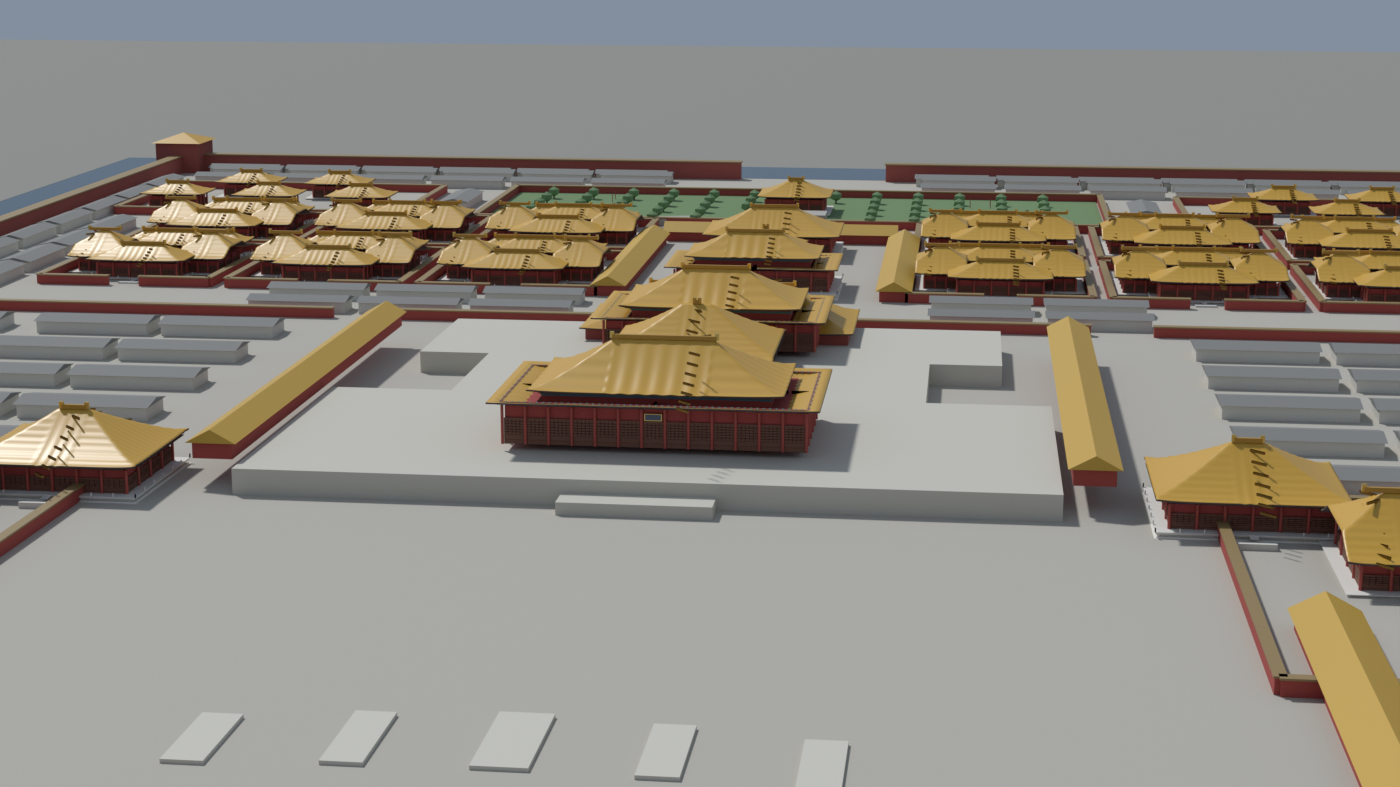
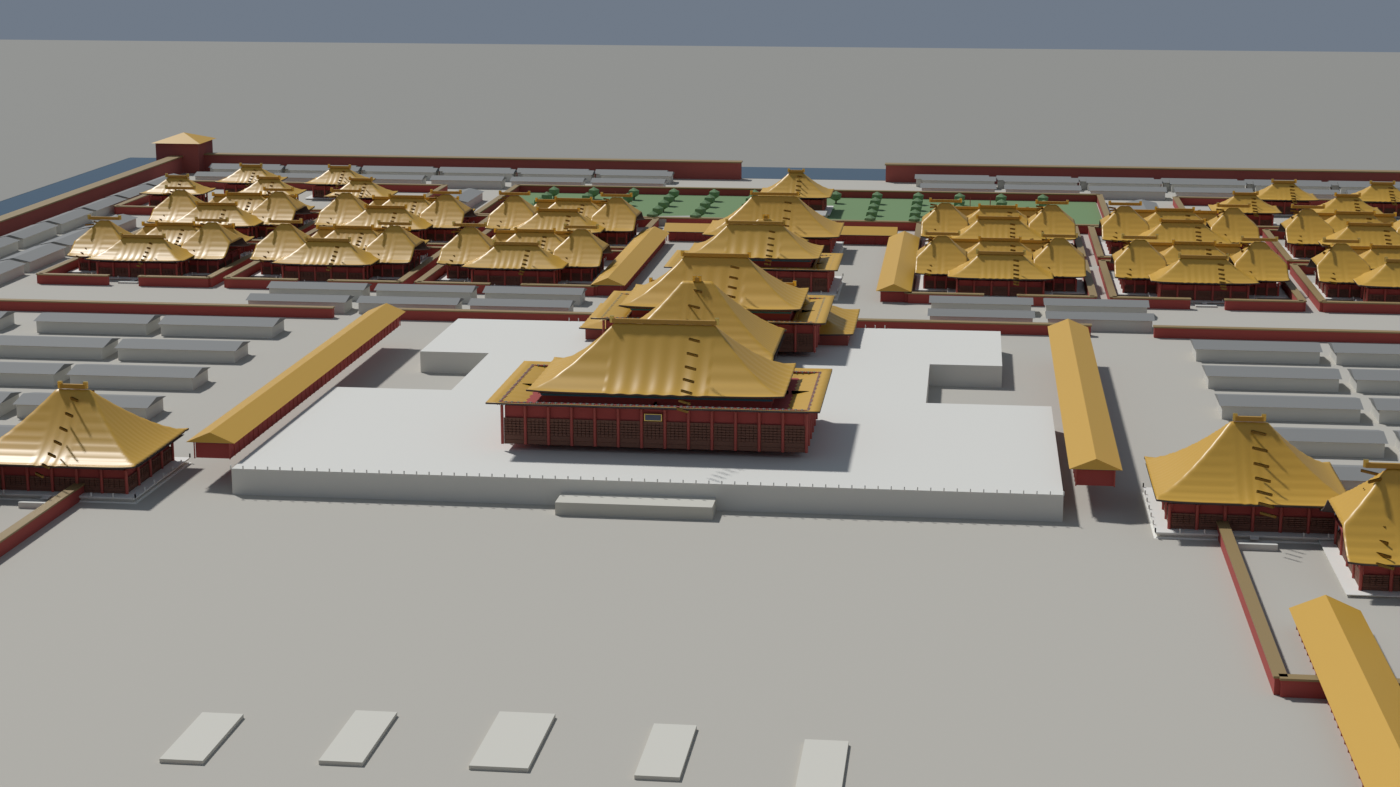
feat(palace): 精模二轮——屋顶加陡、廊庑改柱廊、三台加栏杆、光比调强

diff --git a/tools/palace/precise_lib.py b/tools/palace/precise_lib.py
@@ -37,8 +37,8 @@ def make_materials():
         soffit=_mat("椽望", (0.10, 0.075, 0.07), 0.9),
         column=_mat("朱红柱", (0.44, 0.08, 0.06), 0.6),
         wall=_mat("朱红墙", (0.40, 0.07, 0.06), 0.9),
-        stone=_mat("汉白玉", (0.82, 0.80, 0.74), 0.65),
-        stone2=_mat("石阶", (0.72, 0.70, 0.64), 0.8),
+        stone=_mat("汉白玉", (0.72, 0.70, 0.64), 0.6),
+        stone2=_mat("石阶", (0.60, 0.58, 0.52), 0.75),
         cai_blue=_mat("彩画青", (0.05, 0.20, 0.32), 0.6),
         cai_green=_mat("彩画绿", (0.05, 0.22, 0.16), 0.6),
         gold=_mat("金", (0.74, 0.56, 0.16), 0.32, 0.9),
@@ -294,7 +294,7 @@ def hip_roof(name, w, d, z_eave, h, step=0.55, mat=None):
 
     def f(x, y):
         t = min(max(max(abs(y), max(abs(x) - L / 2, 0.0)) / (d / 2), 0.0), 1.0)
-        z = h * (1.0 - t) ** 1.32
+        z = h * (1.0 - t) ** 1.50
         amp = 0.115 * (0.30 + 0.70 * t)
         z += corr(x if abs(x) <= L / 2 else y, amp)
         z += 0.5 * max(0.0, (abs(x) / (w / 2)) * (abs(y) / (d / 2))) ** 6
@@ -361,12 +361,22 @@ def ridges(w, d, z_eave, h, ridge_len, with_kiss=True):
                 t0, t1 = i / n, (i + 1) / n
                 xa, ya = x0 + (x1 - x0) * t0, y0 + (y1 - y0) * t0
                 xb, yb = x0 + (x1 - x0) * t1, y0 + (y1 - y0) * t1
-                za = z_eave + h * (1 - t0) ** 1.32 - 0.9
-                zb = z_eave + h * (1 - t1) ** 1.32 - 0.9
+                za = z_eave + h * (1 - t0) ** 1.50 - 0.9
+                zb = z_eave + h * (1 - t1) ** 1.50 - 0.9
                 seg = math.hypot(xb - xa, yb - ya)
                 ob = box(f"垂脊{sx}{sy}{i}", seg + 0.25, 0.5, 0.7,
                          (xa + xb) / 2, (ya + yb) / 2, (za + zb) / 2, MAT["tile2"])
                 ob.rotation_euler[2] = math.atan2(yb - ya, xb - xa)
+
+
+def balustrade_line(x0, x1, y, z, n=None, along_x=True):
+    n = n or max(2, int(abs(x1 - x0) / 3.6))
+    for i in range(n + 1):
+        t = x0 + (x1 - x0) * i / n
+        if along_x:
+            box("三台·望柱", 0.32, 0.32, 1.1, t, y, z, MAT["stone"])
+        else:
+            box("三台·望柱", 0.32, 0.32, 1.1, y, t, z, MAT["stone"])
 
 
 # ------------------------------------------------------------------ 门窗
@@ -397,6 +407,40 @@ def lattice_bay(name, w, h, x, y, z0, rot=0.0, bars=6):
     return ob
 
 
+def gable_roof(name, w, d, z_eave, h, mat=None, overhang=1.2):
+    """两坡（悬山）顶：给廊庑、值房用。"""
+    mat = mat or MAT["tile"]
+    w2, d2 = w + 2 * overhang, d + 2 * overhang
+    swap = d2 > w2
+    if swap:
+        w2, d2 = d2, w2
+    v = [(-w2 / 2, -d2 / 2, 0), (w2 / 2, -d2 / 2, 0), (w2 / 2, d2 / 2, 0), (-w2 / 2, d2 / 2, 0),
+         (-w2 / 2, 0, h), (w2 / 2, 0, h)]
+    f = [(0, 1, 5, 4), (3, 2, 5, 4), (0, 4, 3), (1, 2, 5)]
+    if swap:
+        v = [(b, a, c) for a, b, c in v]
+    return mesh_from(name, [(a, b, z_eave + c) for a, b, c in v], f, mat)
+
+
+def colonnade(name, w, d, z=0.0, h=4.6, bays=None):
+    """廊庑：两排柱 + 阑额 + 两坡瓦顶。"""
+    long_x = w >= d
+    span = w if long_x else d
+    n = bays or max(3, int(span / 4.5))
+    for i in range(n + 1):
+        t = -span / 2 + i * span / n
+        if long_x:
+            column(t, -(d / 2 - 0.7), z, z + h, 0.20)
+            column(t, d / 2 - 0.7, z, z + h, 0.20)
+        else:
+            column(-(w / 2 - 0.7), t, z, z + h, 0.20)
+            column(w / 2 - 0.7, t, z, z + h, 0.20)
+    ring_beam(name + "·阑额", w, d, z + h, 0.34, 0.30, MAT["cai_blue"])
+    box(name + "·墙", w - 1.6, d - 1.6, h - 0.3, 0, 0, z, MAT["wall"])
+    gable_roof(name + "·顶", w + 0.6, d + 0.6, z + h + 0.34,
+               max(1.4, (d if long_x else w) * 0.26), overhang=1.0)
+
+
 # ------------------------------------------------------------------ 整殿
 def hall(name, w, d, bays=None, dbays=None, z=0.0, storeys=1,
          base_h=3.2, col_h=12.0, plaque=None, lod=1, stairs=True, balustrade=True):
@@ -422,7 +466,7 @@ def hall(name, w, d, bays=None, dbays=None, z=0.0, storeys=1,
         rafter_band(f"{name}·椽", w + 1, d + 1, eave_lo - 0.12, depth=3.4)
 
     if storeys == 1:
-        roof_h = max(0.30 * d, 4.0)
+        roof_h = max(0.46 * d, 6.0)
         hip_roof(name + "·顶", w + 8, d + 8, eave_lo + 0.42, roof_h,
                  step=0.55 if lod >= 2 else 0.8)
         ridges(w + 8, d + 8, eave_lo + 0.42, roof_h, (w + 8) - (d + 8))
@@ -457,7 +501,7 @@ def hall(name, w, d, bays=None, dbays=None, z=0.0, storeys=1,
         eave_hi = ring_z + 4.6
         dougong_ring(up_w - 1.1, up_d - 1.1, eave_hi - 0.82, spacing=2.0, lod=lod)
         rafter_band(f"{name}·上椽", up_w - 1.1, up_d - 1.1, eave_hi - 0.3, depth=2.8)
-        roof_h = max(0.30 * up_d, 5.0)
+        roof_h = max(0.42 * up_d, 7.0)
         hip_roof(name + "·上顶", up_w + 6, up_d + 6, eave_hi + 0.35, roof_h,
                  step=0.55 if lod >= 2 else 0.8)
         ridges(up_w + 6, up_d + 6, eave_hi + 0.35, roof_h, (up_w + 6) - (up_d + 6))

diff --git a/tools/palace/build_massing.py b/tools/palace/build_massing.py
@@ -270,7 +270,10 @@ def prism(name, poly, h, z0, mat):
     return mesh_from(name, verts, faces, mat)
 
 
-prism("三台", D.PLATFORM_POLY, D.PLATFORM_H, 0.0, MAT["platform"])
+PL.make_materials()
+prism("三台", D.PLATFORM_POLY, D.PLATFORM_H, 0.0, PL.MAT["stone2"])
+PL.balustrade_line(-118, 118, -215.5, D.PLATFORM_H)
+PL.balustrade_line(-60, 60, 11.5, D.PLATFORM_H)
 for p in D.PLATFORMS:
     box(p["name"], p["w"], p["d"], p["h"], p["cx"], p["cy"], 0.0, MAT["platform"])
 
@@ -355,8 +358,15 @@ print("BUILD structs", len(D.STRUCTS), flush=True)
 for _i, s in enumerate(D.STRUCTS):
     if _i % 20 == 0:
         print("  struct", _i, s["name"], flush=True)
-    if args.precise and s["kind"] in ("hall", "gate", "pavilion", "tower"):
-        add_struct_precise(s)
+    if args.precise and s["kind"] in ("hall", "gate", "pavilion", "tower", "corridor"):
+        if s["kind"] == "corridor":
+            before = set(col.objects)
+            PL.colonnade(s["name"], s["w"], s["d"], z=s.get("z", 0.0), h=min(4.8, s["h"] + 0.4))
+            for ob in set(col.objects) - before:
+                ob.location.x += s["cx"]
+                ob.location.y += s["cy"]
+        else:
+            add_struct_precise(s)
         continue
     if s["kind"] == "rock":
         for k, (dx, dy, dz, sc_) in enumerate(((0, 0, 0, 1.0), (7, -4, 0.2, 0.62), (-6, 3, 0.1, 0.55))):
@@ -384,17 +394,17 @@ def look_at(ob, target):
 
 
 sun_d = bpy.data.lights.new("Sun", type="SUN")
-sun_d.energy = 2.6
+sun_d.energy = 4.2
 sun_d.angle = math.radians(4)
 sun = bpy.data.objects.new("Sun", sun_d)
 col.objects.link(sun)
-sun.rotation_euler = (math.radians(40), 0, math.radians(225))
+sun.rotation_euler = (math.radians(33), 0, math.radians(232))
 
 sc.world = bpy.data.worlds.new("World")
 sc.world.use_nodes = True
 bg = sc.world.node_tree.nodes["Background"]
 bg.inputs[0].default_value = (0.60, 0.72, 0.90, 1.0)
-bg.inputs[1].default_value = 0.45
+bg.inputs[1].default_value = 0.32
 
 sc.render.engine = "CYCLES"
 sc.cycles.device = "GPU"
@@ -408,7 +418,7 @@ sc.view_settings.exposure = -0.25
 # ------------------------------------------------------------------ 出图
 AR = 16 / 9
 shots = [
-    ("鸟瞰·东南", dict(loc=(820, -980, 520), target=(0, 10, 0), lens=45)),
+    ("鸟瞰·东南", dict(loc=(620, -760, 380), target=(0, -60, 0), lens=48)),
     ("鸟瞰·中轴", dict(loc=(90, -820, 175), target=(0, -70, 0), lens=58)),
     ("鸟瞰·内廷", dict(loc=(-520, -200, 380), target=(0, 120, 0), lens=50)),
     ("人视·金瓯殿", dict(loc=(178, -338, 24), target=(0, -150, 14), lens=42)),
